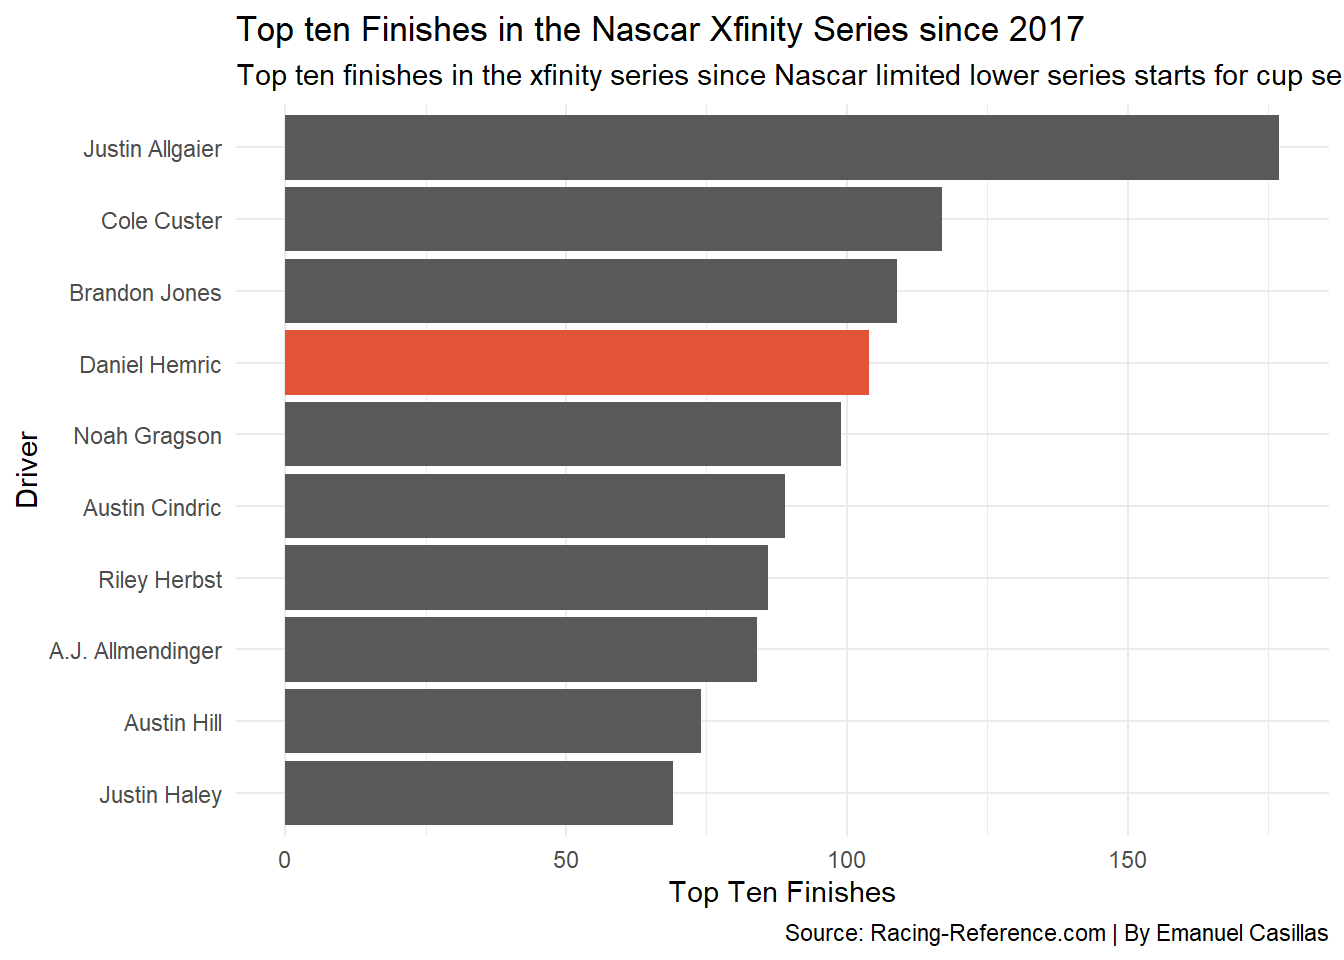
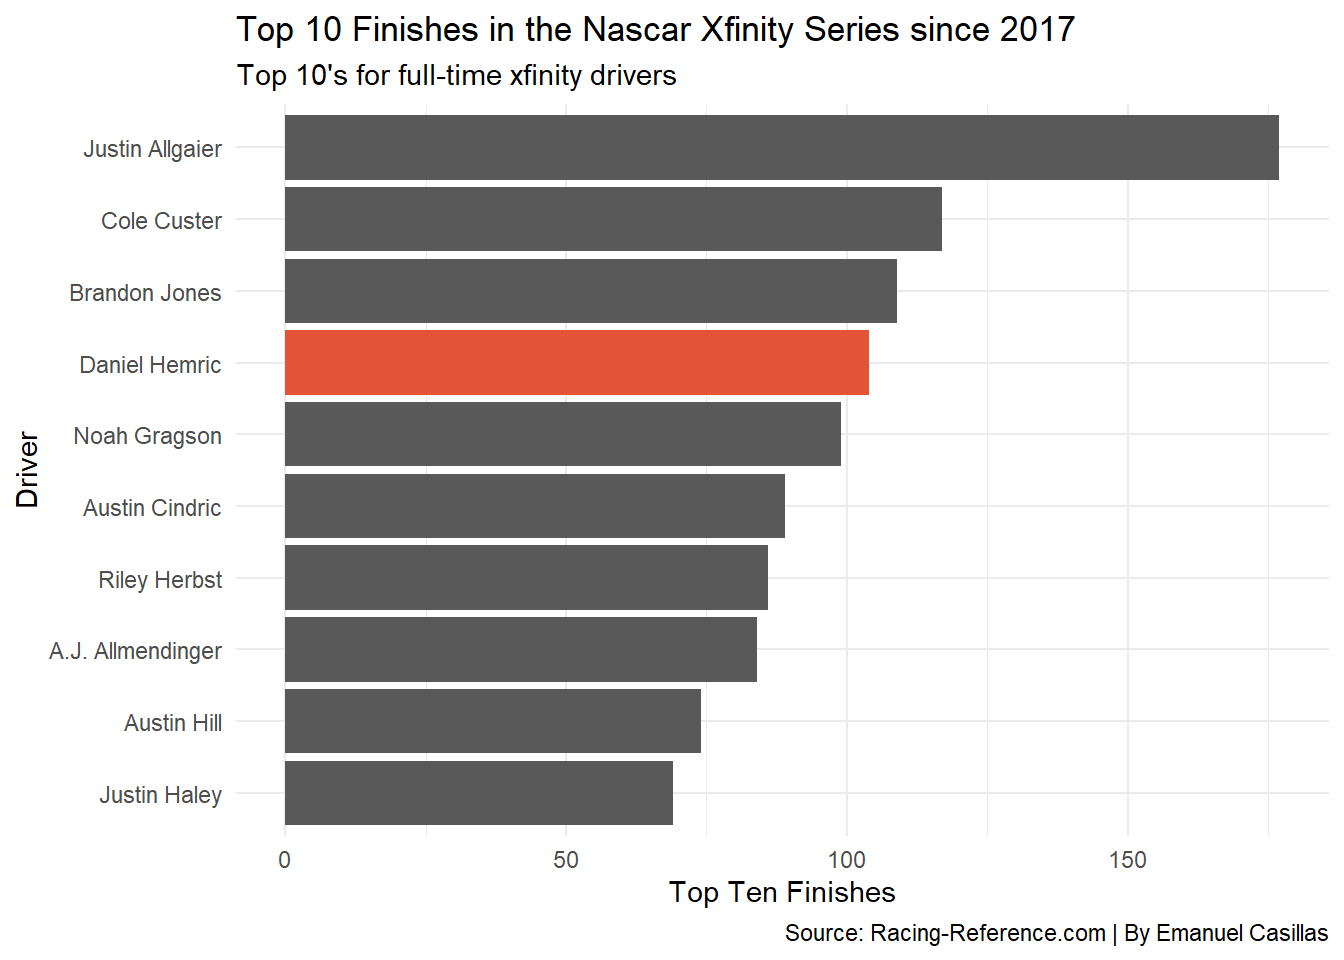
Hemric 13

Changed region(s): [[0.2188, 0.0, 1.0, 0.0938]]

diff --git a/posts/Why-is-Daniel-Hemric/index.html b/posts/Why-is-Daniel-Hemric/index.html
@@ -208,8 +208,8 @@ pre > code.sourceCode > span > a:first-child::before { text-decoration: underlin
 <span id="cb1-16"><a href="#cb1-16" aria-hidden="true" tabindex="-1"></a>  <span class="fu">labs</span>(</span>
 <span id="cb1-17"><a href="#cb1-17" aria-hidden="true" tabindex="-1"></a>    <span class="at">x=</span><span class="st">"Driver"</span>, </span>
 <span id="cb1-18"><a href="#cb1-18" aria-hidden="true" tabindex="-1"></a>    <span class="at">y=</span><span class="st">"Top Ten Finishes"</span>, </span>
-<span id="cb1-19"><a href="#cb1-19" aria-hidden="true" tabindex="-1"></a>    <span class="at">title=</span><span class="st">"Top ten Finishes in the Nascar Xfinity Series since 2017"</span>, </span>
-<span id="cb1-20"><a href="#cb1-20" aria-hidden="true" tabindex="-1"></a>    <span class="at">subtitle=</span><span class="st">"Top ten finishes in the xfinity series since Nascar limited lower series starts for cup series drivers"</span>, </span>
+<span id="cb1-19"><a href="#cb1-19" aria-hidden="true" tabindex="-1"></a>    <span class="at">title=</span><span class="st">"Top 10 Finishes in the Nascar Xfinity Series since 2017"</span>, </span>
+<span id="cb1-20"><a href="#cb1-20" aria-hidden="true" tabindex="-1"></a>    <span class="at">subtitle=</span><span class="st">"Top 10's for full-time xfinity drivers"</span>, </span>
 <span id="cb1-21"><a href="#cb1-21" aria-hidden="true" tabindex="-1"></a>    <span class="at">caption=</span><span class="st">"Source: Racing-Reference.com | By Emanuel Casillas"</span>) <span class="sc">+</span></span>
 <span id="cb1-22"><a href="#cb1-22" aria-hidden="true" tabindex="-1"></a>  <span class="fu">theme</span>(</span>
 <span id="cb1-23"><a href="#cb1-23" aria-hidden="true" tabindex="-1"></a>    <span class="at">plot.title =</span> <span class="fu">element_text</span>(<span class="at">size =</span> <span class="dv">20</span>, <span class="at">face =</span> <span class="st">"bold"</span>),</span>
@@ -233,7 +233,7 @@ pre > code.sourceCode > span > a:first-child::before { text-decoration: underlin
 <details class="code-fold">
 <summary>Code</summary>
 <div class="sourceCode cell-code" id="cb2"><pre class="sourceCode r code-with-copy"><code class="sourceCode r"><span id="cb2-1"><a href="#cb2-1" aria-hidden="true" tabindex="-1"></a>racedata <span class="ot">&lt;-</span> <span class="fu">c</span>(<span class="st">"Austin Cindric"</span> <span class="ot">=</span> <span class="dv">115</span>, <span class="st">"Daniel Hemric"</span> <span class="ot">=</span> <span class="dv">67</span>, <span class="st">"A.J Allmendinger"</span><span class="ot">=</span><span class="dv">42</span>, <span class="st">"Justin Allgaier"</span><span class="ot">=</span><span class="dv">47</span>, <span class="st">"Noah Gragson"</span> <span class="ot">=</span> <span class="dv">36</span>)  </span>
-<span id="cb2-2"><a href="#cb2-2" aria-hidden="true" tabindex="-1"></a><span class="fu">waffle</span>(         racedata,          <span class="at">rows =</span> <span class="dv">10</span>,          <span class="at">colors =</span> <span class="fu">c</span>(<span class="st">"#FDFD96"</span>, <span class="st">"black"</span>, <span class="st">"#77DD77"</span>, <span class="st">"#FF6961"</span>, <span class="st">"#AEC6CF"</span>) ) <span class="sc">+</span>   <span class="fu">labs</span>(     <span class="at">x =</span> <span class="st">"1 square = 10 laps led"</span>,     <span class="at">title=</span><span class="st">"Laps led during the 2021 Xfinity season? "</span>,      <span class="at">subtitle=</span><span class="st">"To win races, you have to be at the front, who did that the most in the 2021 season"</span>,     <span class="at">caption=</span><span class="st">"Source: Racing-Reference.com | Graphic by Emanuel Casillas"</span>) <span class="sc">+</span>      <span class="fu">theme_minimal</span>()<span class="sc">+</span>   <span class="fu">theme</span>(     <span class="at">plot.title =</span> <span class="fu">element_text</span>(<span class="at">size =</span> <span class="dv">16</span>, <span class="at">face =</span> <span class="st">"bold"</span>),     <span class="at">axis.title =</span> <span class="fu">element_text</span>(<span class="at">size =</span> <span class="dv">10</span>),     <span class="at">axis.title.y =</span> <span class="fu">element_blank</span>()   )</span></code><button title="Copy to Clipboard" class="code-copy-button"><i class="bi"></i></button></pre></div>
+<span id="cb2-2"><a href="#cb2-2" aria-hidden="true" tabindex="-1"></a><span class="fu">waffle</span>(         racedata,          <span class="at">rows =</span> <span class="dv">10</span>,          <span class="at">colors =</span> <span class="fu">c</span>(<span class="st">"#FDFD96"</span>, <span class="st">"black"</span>, <span class="st">"#77DD77"</span>, <span class="st">"#FF6961"</span>, <span class="st">"#AEC6CF"</span>) ) <span class="sc">+</span>   <span class="fu">labs</span>(     <span class="at">x =</span> <span class="st">"1 square = 10 laps led"</span>,     <span class="at">title=</span><span class="st">"Laps led during the 2021 Xfinity season? "</span>,      <span class="at">subtitle=</span><span class="st">"To win races, you have to be at the front, who did that the most in the 2021 season?"</span>,     <span class="at">caption=</span><span class="st">"Source: Racing-Reference.com | Graphic by Emanuel Casillas"</span>) <span class="sc">+</span>      <span class="fu">theme_minimal</span>()<span class="sc">+</span>   <span class="fu">theme</span>(     <span class="at">plot.title =</span> <span class="fu">element_text</span>(<span class="at">size =</span> <span class="dv">16</span>, <span class="at">face =</span> <span class="st">"bold"</span>),     <span class="at">axis.title =</span> <span class="fu">element_text</span>(<span class="at">size =</span> <span class="dv">10</span>),     <span class="at">axis.title.y =</span> <span class="fu">element_blank</span>()   )</span></code><button title="Copy to Clipboard" class="code-copy-button"><i class="bi"></i></button></pre></div>
 </details>
 <div class="cell-output-display">
 <div>

diff --git a/index.html b/index.html
@@ -222,7 +222,7 @@ window.Quarto = {
 </a>
 </div>
 </div>
-<div class="quarto-post image-right" data-index="1" data-categories="bmFzY2FyJTJDcmFjaW5nJTJDcmFjZWNhcg==" data-listing-date-sort="1744606800000" data-listing-file-modified-sort="1744663387212" data-listing-date-modified-sort="NaN" data-listing-reading-time-sort="6" data-listing-word-count-sort="1005">
+<div class="quarto-post image-right" data-index="1" data-categories="bmFzY2FyJTJDcmFjaW5nJTJDcmFjZWNhcg==" data-listing-date-sort="1744606800000" data-listing-file-modified-sort="1744663655812" data-listing-date-modified-sort="NaN" data-listing-reading-time-sort="5" data-listing-word-count-sort="994">
 <div class="thumbnail">
 <p><a href="./posts/Why-is-Daniel-Hemric/index.html" class="no-external"></a></p><a href="./posts/Why-is-Daniel-Hemric/index.html" class="no-external">
 <p><img loading="lazy" src="./posts/Why-is-Daniel-Hemric/image.png" class="thumbnail-image"></p>
